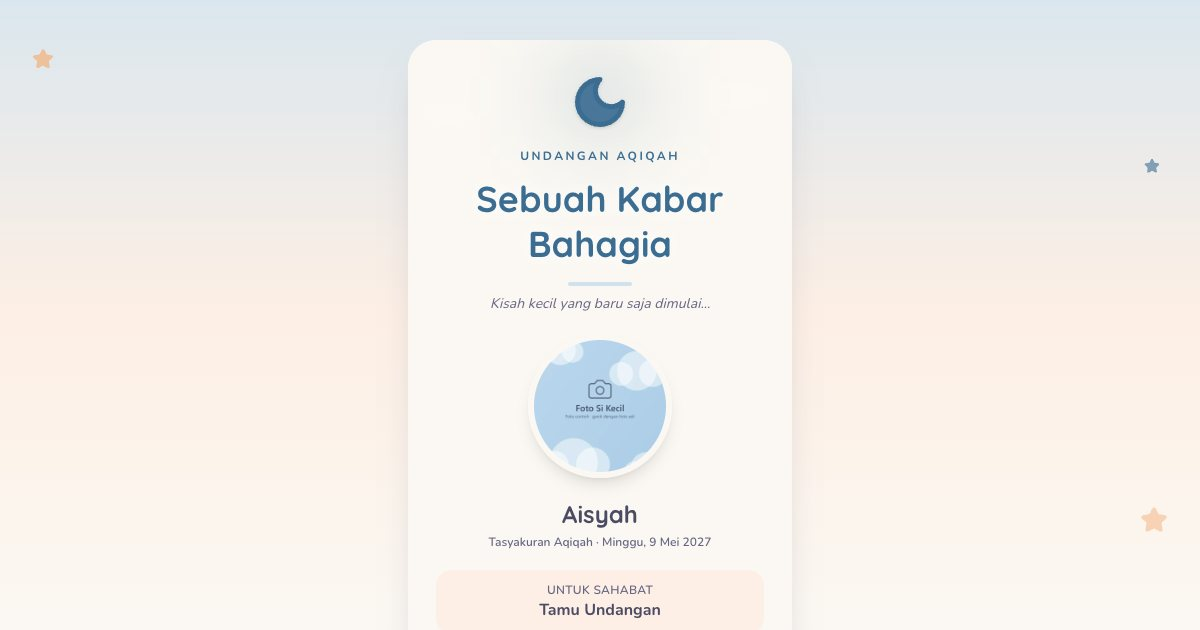
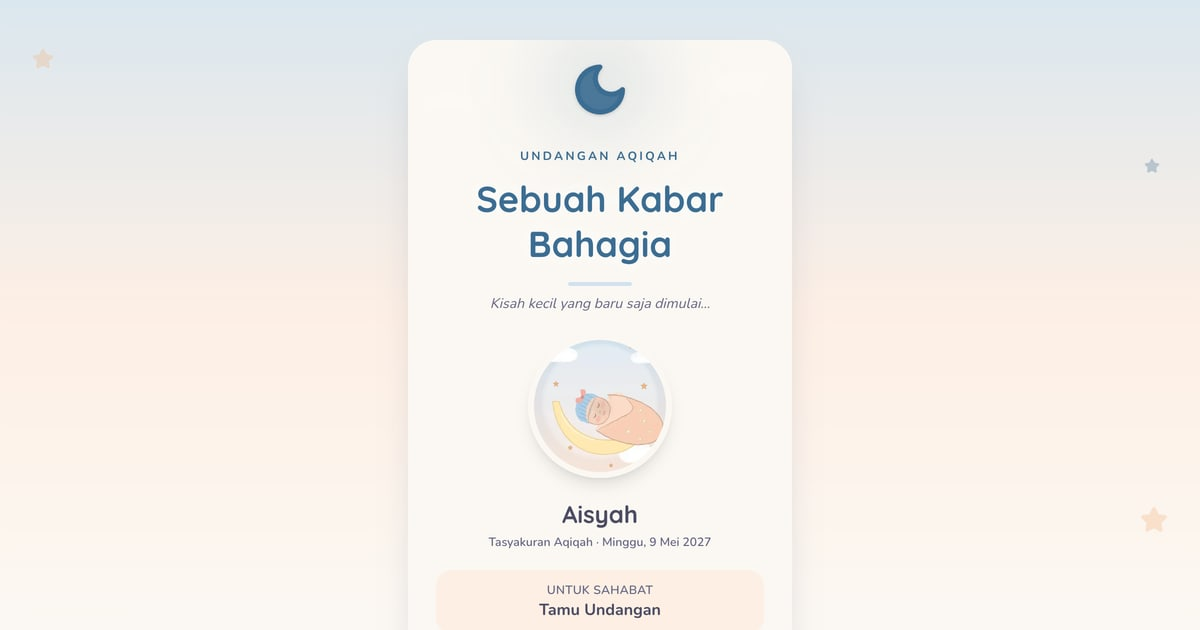
Ganti placeholder aqiqah dengan ilustrasi buku cerita krayon pastel
- Foto si kecil (sampul lingkaran & halaman pengumuman) kini ilustrasi Aisyah tertidur
  berbedong bintang di bantal bulan sabit, berlatar awan & bintang.
- Enam ilustrasi album: genggaman di telunjuk Ayah, dekapan Ibu Salma di jendela pagi,
  adzan pertama dari Ayah Arif, kaki mungil bergelang manik nama, ayunan rotan dengan
  mainan gantung, dan keluarga kecil di rumah.
- Gaya buku cerita: garis pensil warna bergelombang, butir krayon, palet biru bayi & persik.
- Galeri { src, alt } + photoAlt; sumber di public/images/SUMBER.md; og.jpg diperbarui;
  varian statis dibuat ulang (sampul 256w ± 4 KB).

diff --git a/lib/data.js b/lib/data.js
@@ -2,9 +2,10 @@
 //  KONFIGURASI UNDANGAN — Aqiqah (Storybook bayi)
 //  Ubah seluruh isi undangan dari satu tempat ini saja.
 //
-//  Ini undangan CONTOH: nama dan tempat fiktif. Foto di
-//  /public/images adalah placeholder berlabel — ganti dengan
-//  foto asli (potret 3:4).
+//  Ini undangan CONTOH: nama dan tempat fiktif. Gambar di
+//  /public/images adalah ilustrasi buku cerita buatan sendiri
+//  (tokoh fiktif) — ganti dengan foto asli (potret 3:4) dan
+//  perbarui `alt`-nya.
 // ============================================================
 
 const config = {
@@ -32,6 +33,7 @@ const config = {
     length: '49 cm',
     parents: 'Bpk. Arif & Ibu Salma',
     photo: '/images/foto-bayi.webp',
+    photoAlt: 'Ilustrasi Aisyah tertidur berbedong di atas bantal bulan sabit',
   },
 
   // -- Arti nama (doa di balik nama) --
@@ -61,12 +63,12 @@ const config = {
 
   // -- Album (potret 3:4) --
   gallery: [
-    '/images/foto-1.webp',
-    '/images/foto-2.webp',
-    '/images/foto-3.webp',
-    '/images/foto-4.webp',
-    '/images/foto-5.webp',
-    '/images/foto-6.webp',
+    { src: '/images/foto-1.webp', alt: 'Jemari mungil Aisyah menggenggam telunjuk Ayah' },
+    { src: '/images/foto-2.webp', alt: 'Ibu Salma mendekap Aisyah di dekat jendela pagi' },
+    { src: '/images/foto-3.webp', alt: 'Ayah Arif melantunkan adzan pelan di telinga Aisyah' },
+    { src: '/images/foto-4.webp', alt: 'Kaki mungil Aisyah dengan gelang manik bertuliskan namanya' },
+    { src: '/images/foto-5.webp', alt: 'Aisyah tertidur di ayunan rotan di bawah mainan gantung bulan dan bintang' },
+    { src: '/images/foto-6.webp', alt: 'Ayah Arif, Ibu Salma, dan Aisyah berkumpul di rumah' },
   ],
 
   // -- Musik latar (file di /public/music/) --

diff --git a/components/Gallery.jsx b/components/Gallery.jsx
@@ -17,15 +17,15 @@ export default function Gallery() {
     <Page chapter="Album Kenangan" pageNo="Halaman 5">
       <h2 className="text-center font-display text-3xl font-bold text-ink">Galeri Si Kecil</h2>
       <div className="mt-6 grid grid-cols-2 gap-3 sm:grid-cols-3">
-        {gallery.map((src, i) => (
+        {gallery.map((foto, i) => (
           <button
-            key={src}
+            key={foto.src}
             type="button"
             onClick={() => setActive(i)}
             className="group relative h-32 w-full overflow-hidden rounded-2xl border-4 border-blush shadow-sm sm:h-36"
-            aria-label={`Perbesar foto ${i + 1}`}
+            aria-label={`Perbesar foto: ${foto.alt}`}
           >
-            <Image src={src} alt={`Foto ${i + 1}`} fill sizes="(max-width:640px) 45vw, 160px" className="object-cover transition group-hover:scale-110" />
+            <Image src={foto.src} alt={foto.alt} fill sizes="(max-width:640px) 45vw, 160px" className="object-cover transition group-hover:scale-110" />
           </button>
         ))}
       </div>
@@ -45,7 +45,7 @@ export default function Gallery() {
               initial={{ scale: 0.9 }} animate={{ scale: 1 }} exit={{ scale: 0.9 }}
               onClick={(e) => e.stopPropagation()}
             >
-              <Image src={gallery[active]} alt={`Foto ${active + 1}`} fill sizes="(max-width: 640px) 100vw, 512px" className="object-contain" />
+              <Image src={gallery[active].src} alt={gallery[active].alt} fill sizes="(max-width: 640px) 100vw, 512px" className="object-contain" />
             </motion.div>
           </motion.div>
         )}

diff --git a/components/BookCover.jsx b/components/BookCover.jsx
@@ -49,7 +49,7 @@ export default function BookCover({ keluar, onOpen, onSelesai, musik, onMusik })
 
           {/* Foto bayi */}
           <div className="relative mx-auto my-5 h-36 w-36 overflow-hidden rounded-full border-[6px] border-cream shadow-lg">
-            <Image src={baby.photo} alt={baby.fullName} fill priority sizes="144px" className="object-cover" />
+            <Image src={baby.photo} alt={baby.photoAlt || baby.fullName} fill priority sizes="144px" className="object-cover" />
           </div>
           <p className="font-display text-2xl font-bold text-ink">{baby.name}</p>
           <p className="masuk mt-1 text-xs font-semibold text-muted" style={{ '--tunda': '0.2s' }}>

diff --git a/components/Announcement.jsx b/components/Announcement.jsx
@@ -11,7 +11,7 @@ export default function Announcement() {
       <p className="text-sm font-semibold text-muted">{opening.announce}</p>
 
       <div className="relative mx-auto mt-6 h-52 w-52 overflow-hidden rounded-[2rem] border-[6px] border-blush shadow-md">
-        <Image src={baby.photo} alt={baby.fullName} fill sizes="208px" className="object-cover" />
+        <Image src={baby.photo} alt={baby.photoAlt || baby.fullName} fill sizes="208px" className="object-cover" />
       </div>
 
       <h1 className="mt-6 break-words font-display text-4xl font-bold leading-tight text-rose-deep sm:text-5xl">{baby.fullName}</h1>

diff --git a/README.md b/README.md
@@ -6,7 +6,7 @@ Buku cerita bayi: sampul “Buka Buku Cerita”, halaman bernomor, data kelahira
 
 ![Tangkapan layar](public/og.jpg)
 
-> Contoh dengan data fiktif: nama, tempat, dan nomor rekening tidak sungguhan. Formulir hanya demo dan mengatakannya terus terang. Foto adalah placeholder berlabel yang siap diganti.
+> Contoh dengan data fiktif: nama, tempat, dan nomor rekening tidak sungguhan. Formulir hanya demo dan mengatakannya terus terang. Gambar adalah ilustrasi buku cerita buatan sendiri yang siap diganti foto asli.
 
 ## Fitur
 
@@ -24,12 +24,12 @@ Seluruh isi ada di satu file: `lib/data.js` (nama, tanggal, acara, galeri, musik
 
 - **Tanggal:** ubah teks tanggal *dan* nilai ISO (`mainDate`, `start`, `end`) — hitung mundur dan tombol kalender memakai nilai ISO.
 - **Peta:** contoh menunjuk area kota; ganti `q=` di `location.mapEmbed` dan `mapLink` dengan nama tempat atau koordinat.
-- **Foto:** timpa berkas di `public/images/` dengan nama yang sama (potret 3:4).
+- **Foto:** timpa berkas di `public/images/` dengan nama yang sama (potret 3:4), lalu perbarui `alt` di `lib/data.js`.
 - **Musik:** timpa `public/music/latar.mp3`, lalu ubah `music.title` dan `music.credit`. Pastikan Anda berhak memakai lagunya.
 
 ## Gambar & kredit
 
-- `public/images/*.webp` — placeholder berlabel buatan sendiri (bukan foto stok), digambar ulang dari SVG agar tidak bergantung pada layanan luar.
+- `public/images/*.webp` — ilustrasi buku cerita buatan sendiri (krayon & cat air pastel), digambar dari SVG; tokohnya fiktif. Lihat `public/images/SUMBER.md`.
 - `public/music/latar.mp3` — *Wiegenlied (Guten Abend, gut’ Nacht) — Johannes Brahms*, kotak musik oleh stephan, domain publik — [Wikimedia Commons](https://commons.wikimedia.org/wiki/File:Lullaby_wound_up_clock_guten_abend_gute_nacht.ogg). Diperkecil ke MP3 mono 80 kbps.
 
 ## Teknologi

diff --git a/public/images/SUMBER.md b/public/images/SUMBER.md
@@ -1,0 +1,8 @@
+# Sumber gambar
+
+| Berkas | Isi | Pembuat | Lisensi |
+|---|---|---|---|
+| `foto-bayi.webp` | Ilustrasi Aisyah tertidur berbedong di bantal bulan sabit | Dibuat untuk demo ini (SVG bergaya buku cerita digambar lewat kode, diekspor ke WebP) | Milik proyek |
+| `foto-1.webp` … `foto-6.webp` | Ilustrasi album: genggaman jari, pelukan Ibu, adzan pertama, kaki bergelang nama, ayunan, keluarga | Dibuat untuk demo ini (cara yang sama) | Milik proyek |
+
+Tidak ada foto pihak ketiga di proyek ini. Tokohnya fiktif.
